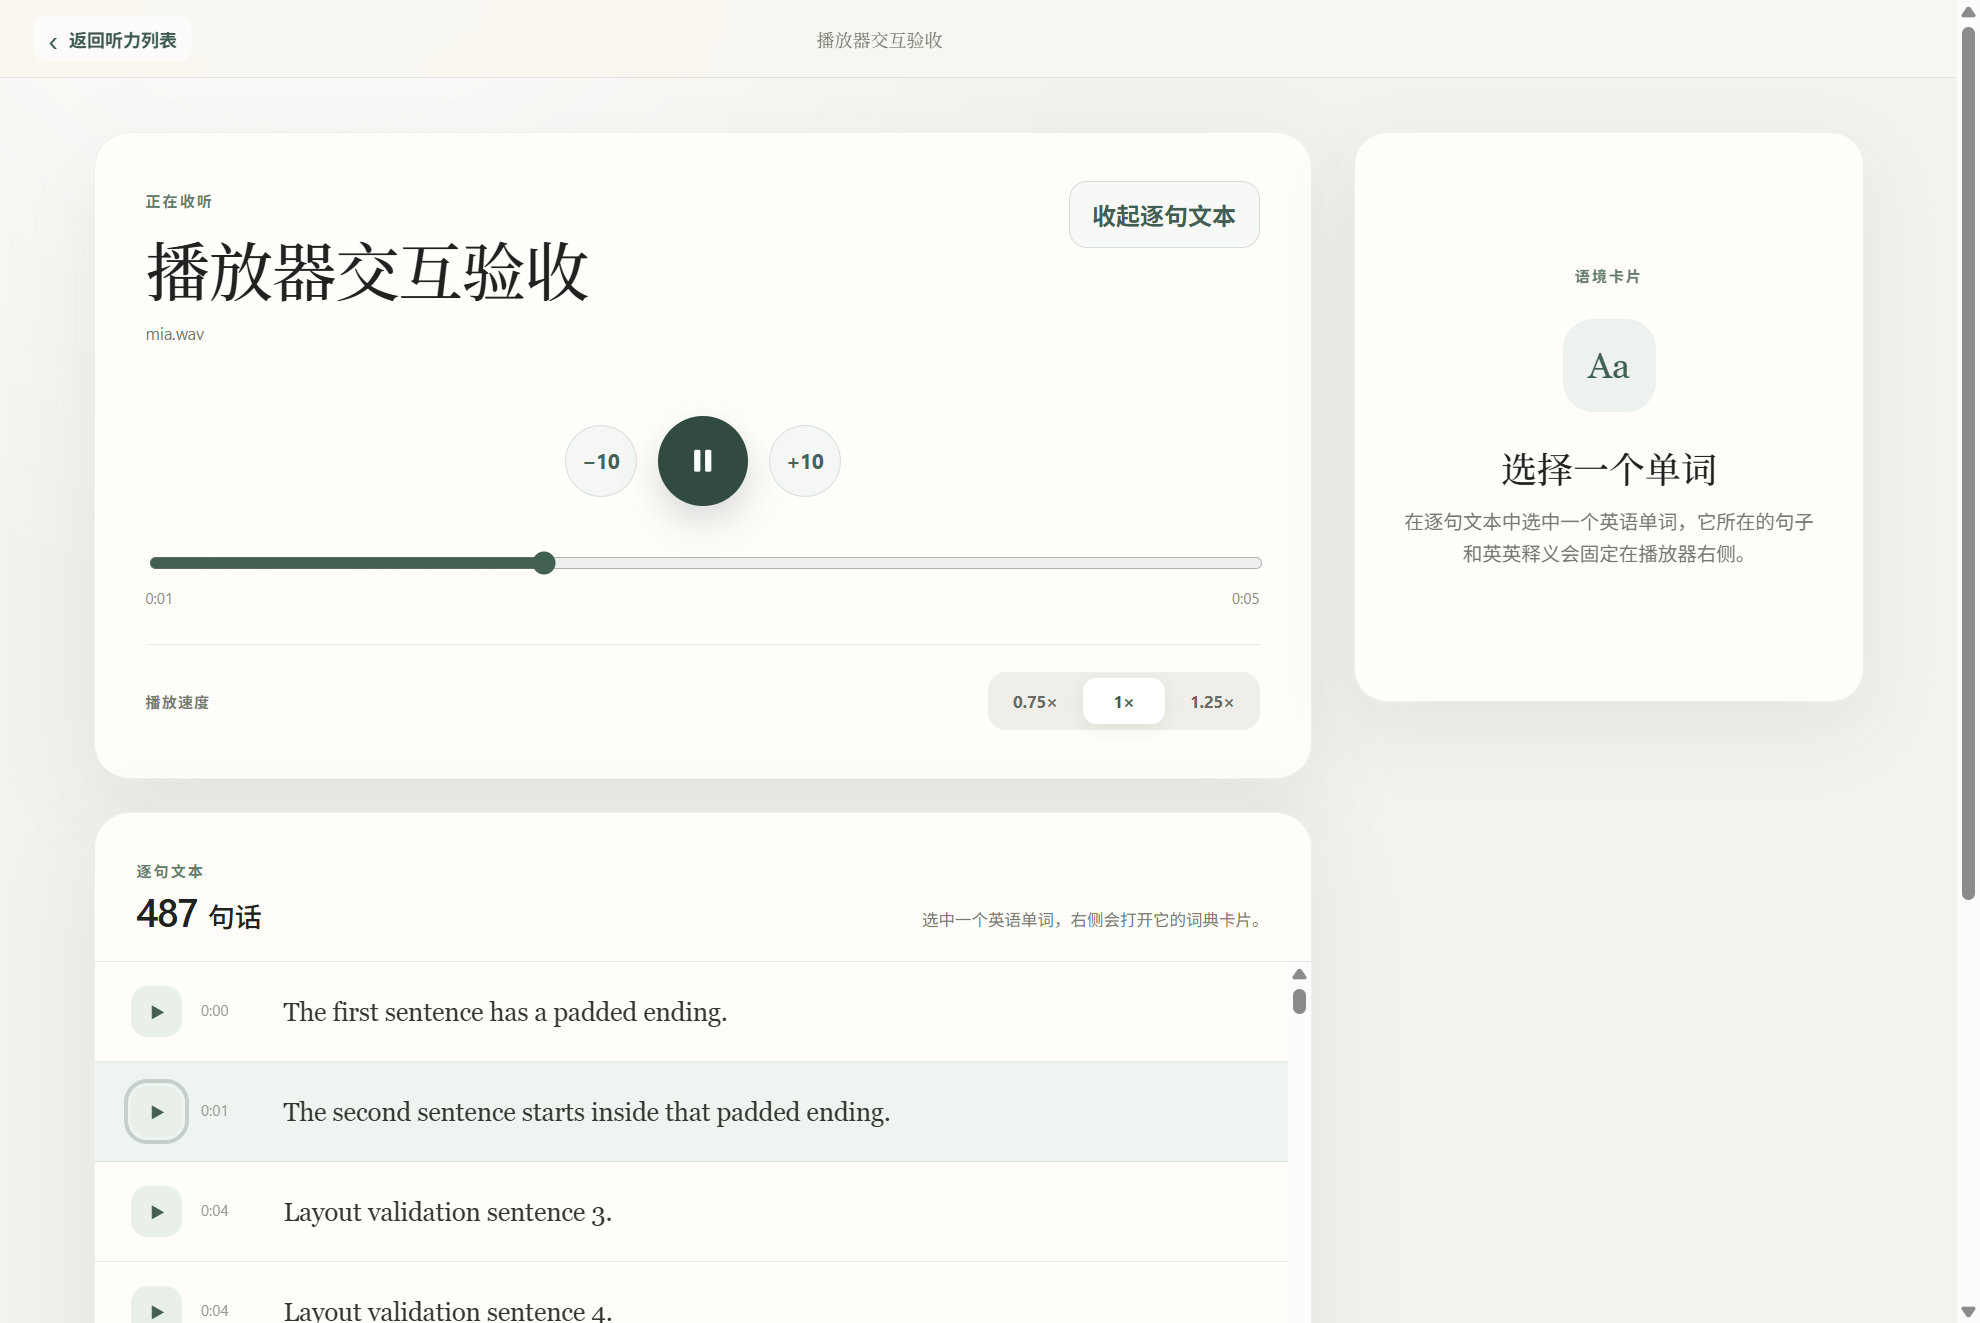
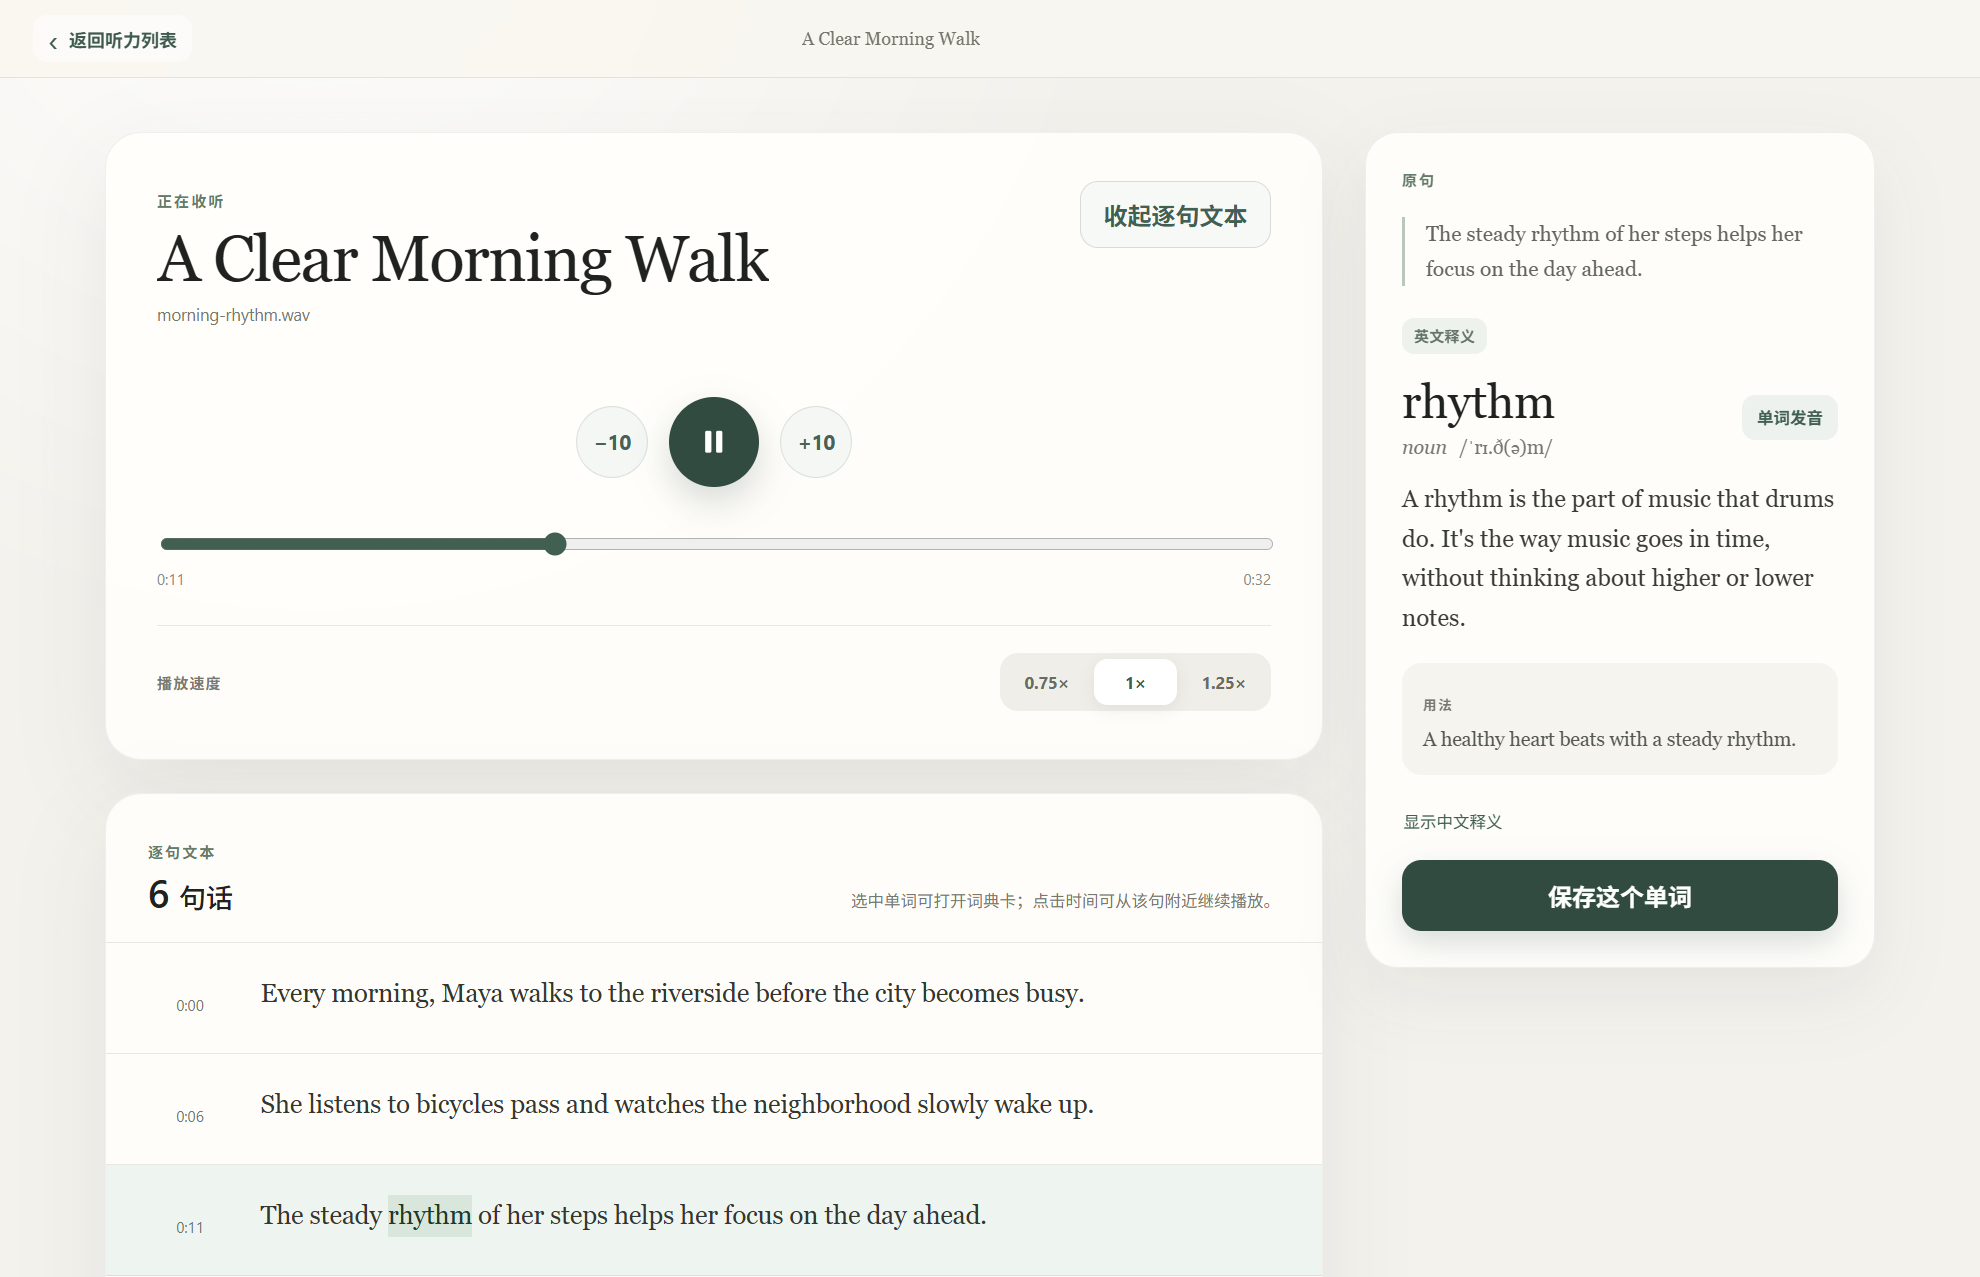
docs: refresh 0.2.2 portfolio presentation

diff --git a/README.md b/README.md
@@ -2,9 +2,9 @@
 
 原境英语是一款面向 Windows 的本地英语阅读与听力练习应用。它把文章阅读、上下文查词、生词本、原句朗读、本地音频转写和跟随文本练习放在同一个安静、适合长时间使用的桌面界面中。
 
-> Current source and local desktop version: `0.2.2`. Latest public installer: `0.2.1`. The interface supports Chinese and English.
+> Current source, local desktop version, and latest public installer: `0.2.2`. The interface supports Chinese and English.
 
-![原境英语阅读首页](docs/images/reading-home.png)
+![原境英语专注阅读页](docs/images/reading-home.png)
 
 ## 主要功能
 
@@ -26,7 +26,7 @@ AI 服务由用户自行配置。当前支持 MiMo，以及用于文本能力的
 
 ## 安装
 
-正式安装包通过 GitHub Releases 提供，不提交进 Git 历史。`0.2.1` 的 Windows x64 安装包约 530 MiB，包含本地 Small.EN 模型和 whisper.cpp 运行库。
+正式安装包通过 GitHub Releases 提供，不提交进 Git 历史。[`0.2.2` 个人测试版](https://github.com/yuy07399841-cell/origin-english/releases/tag/v0.2.2)的 Windows x64 安装包约 530 MiB，包含本地 Small.EN 模型和 whisper.cpp 运行库。
 
 当前个人测试版尚未进行 Windows 代码签名，手动安装时可能出现 SmartScreen 提示。请只从本仓库的正式 Release 下载，并核对发布页提供的 SHA-256。
 

diff --git a/PRIVACY.md b/PRIVACY.md
@@ -1,6 +1,6 @@
 # Privacy
 
-原境英语以本地优先为默认设计。以下说明对应当前 `0.2.1` 个人测试版。
+原境英语以本地优先为默认设计。以下说明对应当前 `0.2.2` 个人测试版。
 
 ## 保存在本机的数据
 
